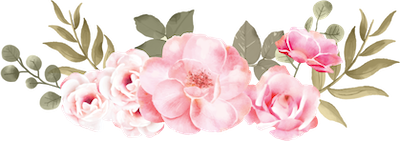
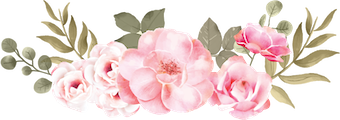
update image divider

diff --git a/index.html b/index.html
@@ -356,10 +356,13 @@
             </div>
           </div>
           <!-- IMAGES -->
-
+          <div class="space40px"></div>
+          <div class="space40px"></div>
             <div data-aos="fade-up" data-aos-easing="linear">
               <img src="image/divider-leaves.png" class="divider has-vertically-align">
             </div> 
+            <div class="space40px"></div>
+            <div class="space40px"></div>
           </div> 
           </div>
         </div>
